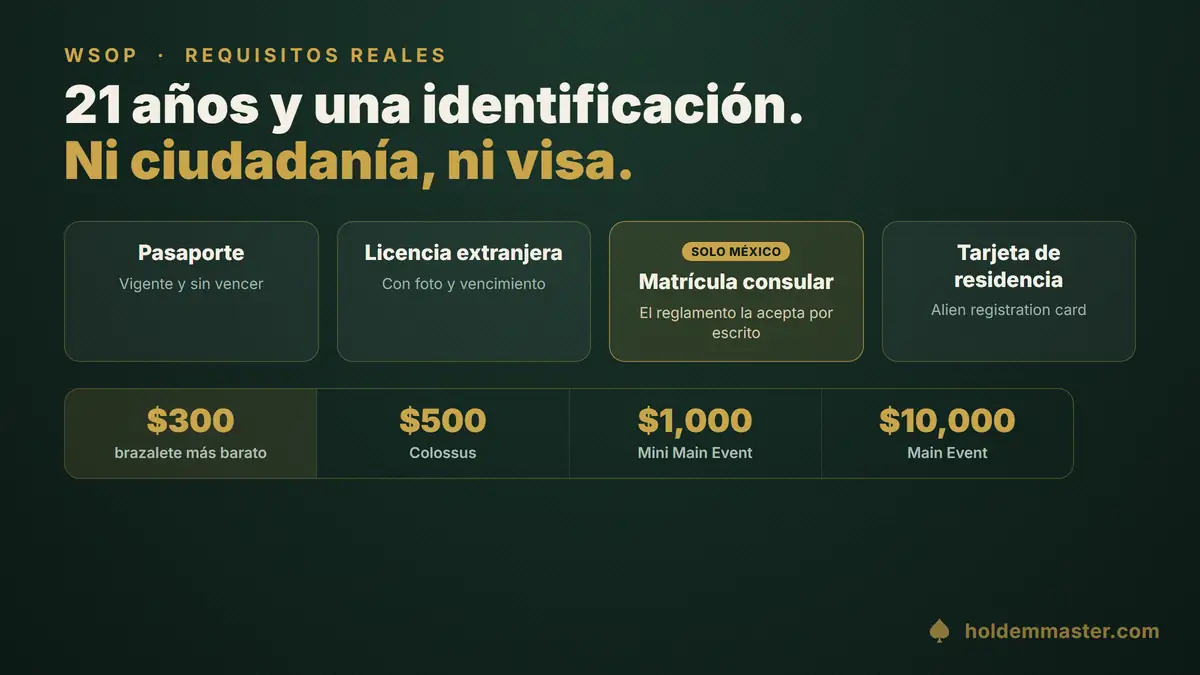
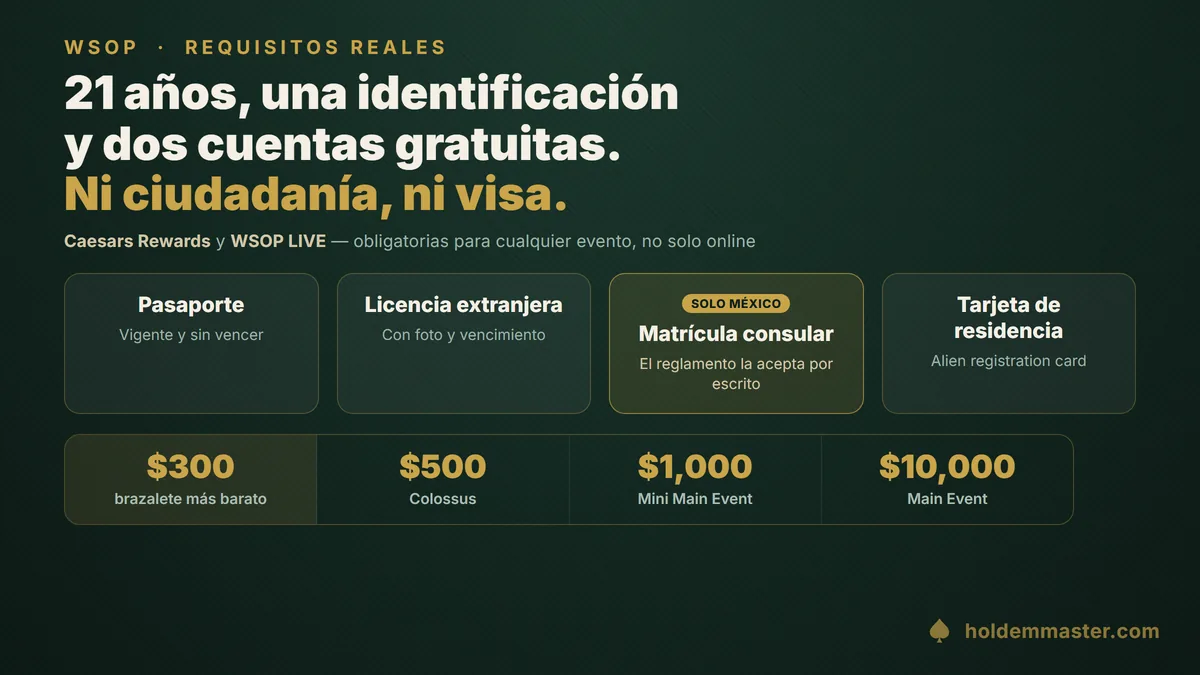
fix(es): como-entrar-al-wsop hero re-rendered with the two free accounts (Q4b-6, owner decision)
- headline now matches the body: 21 years, a valid ID and two free accounts
  (Caesars Rewards + WSOP LIVE); "no citizenship, no visa" kept; document and
  buy-in cards unchanged; watermark in template
- new template scripts/gen-como-entrar-al-wsop-hero.html replaces gen-wsop-hero.html
  (old name did not match the output file); render-gen-final q82, 46KB, 1200x675
- imageAlt updated to the same claim; updated 2026-09-17; sitemap lastmod
- WORKLOG 2026-09-17 (2); harden-queue progress Q4b-6 closed

Claude-Session: https://claude.ai/code/session_01QPTngUBxAAkhNnZwS1h9WZ

diff --git a/scripts/gen-como-entrar-al-wsop-hero.html b/scripts/gen-como-entrar-al-wsop-hero.html
@@ -8,11 +8,13 @@
     color:#f4efe4;position:relative;overflow:hidden}
   .felt{position:absolute;inset:0;opacity:.10;
     background-image:repeating-linear-gradient(45deg,#000 0 2px,transparent 2px 5px)}
-  .wrap{position:relative;padding:44px 64px 0}
+  .wrap{position:relative;padding:36px 64px 0}
   .kicker{font-size:19px;letter-spacing:.22em;text-transform:uppercase;color:#c9a44a;font-weight:700}
-  h1{font-size:52px;line-height:1.08;font-weight:900;margin-top:10px}
+  h1{font-size:46px;line-height:1.1;font-weight:900;margin-top:8px}
+  .sub{margin-top:12px;font-size:17px;font-weight:500;color:#9db3a6;letter-spacing:.01em}
+  .sub b{color:#d2c6a8;font-weight:700}
   h1 em{font-style:normal;color:#c9a44a}
-  .docs{margin-top:32px;display:flex;gap:18px}
+  .docs{margin-top:22px;display:flex;gap:18px}
   .d{flex:1;background:rgba(255,255,255,.05);border:1px solid rgba(201,164,74,.30);
     border-radius:16px;padding:18px 20px;text-align:center}
   .d.star{background:rgba(201,164,74,.14);border-color:rgba(201,164,74,.65)}
@@ -21,7 +23,7 @@
   .d.star .s{color:#d2c6a8}
   .pill{display:inline-block;background:#c9a44a;color:#10201a;font-size:12px;font-weight:800;
     padding:2px 9px;border-radius:20px;margin-bottom:8px;letter-spacing:.04em}
-  .price{margin-top:26px;display:flex;align-items:stretch;gap:0;border-radius:16px;overflow:hidden;
+  .price{margin-top:20px;display:flex;align-items:stretch;gap:0;border-radius:16px;overflow:hidden;
     border:1px solid rgba(201,164,74,.32);width:1010px}
   .p{flex:1;padding:16px 22px;text-align:center;border-right:1px solid rgba(255,255,255,.08)}
   .p:last-child{border-right:0}
@@ -36,7 +38,8 @@
 <div class="felt"></div>
 <div class="wrap">
   <div class="kicker">WSOP &nbsp;·&nbsp; requisitos reales</div>
-  <h1>21 años y una identificación.<br><em>Ni ciudadanía, ni visa.</em></h1>
+  <h1>21 años, una identificación<br>y dos cuentas gratuitas.<br><em>Ni ciudadanía, ni visa.</em></h1>
+  <div class="sub"><b>Caesars Rewards</b> y <b>WSOP LIVE</b> — obligatorias para cualquier evento, no solo online</div>
 
   <div class="docs">
     <div class="d"><div class="t">Pasaporte</div><div class="s">Vigente y sin vencer</div></div>

diff --git a/lib/posts-es/como-entrar-al-wsop.ts b/lib/posts-es/como-entrar-al-wsop.ts
@@ -8,12 +8,12 @@ export const POST: Post = {
   tldr: "Para entrar al WSOP el reglamento pide 21 años cumplidos, una identificación válida y dos cuentas gratuitas (Caesars Rewards y WSOP LIVE); algunos eventos ponen condiciones propias. No pide ciudadanía estadounidense ni visa de ningún tipo, y para quien no es ciudadano acepta pasaporte, licencia extranjera, tarjeta de residencia y la matrícula consular mexicana (útil si ya vives en EE. UU.). Sobre el precio: el Main Event son $10,000, pero el brazalete más barato del calendario cuesta $300. Y ojo con el registro: la primera vez hay una verificación en persona.",
   category: "tournament",
   date: "2026-07-27",
-  updated: "2026-09-16",
+  updated: "2026-09-17",
   keepImagesInBody: true,
   readTime: "10 min",
   emoji: "🏆",
   image: "/images/como-entrar-al-wsop-hero.webp",
-  imageAlt: "Requisitos para entrar al WSOP: 21 años cumplidos y una identificación válida, con la matrícula consular mexicana entre los documentos que acepta el reglamento",
+  imageAlt: "Requisitos para entrar al WSOP: 21 años cumplidos, una identificación válida y dos cuentas gratuitas (Caesars Rewards y WSOP LIVE), sin ciudadanía ni visa, con la matrícula consular mexicana entre los documentos que acepta el reglamento",
   tags: [
     "como entrar al wsop",
     "wsop requisitos",

diff --git a/docs/harden-queue-진행.md b/docs/harden-queue-진행.md
@@ -951,6 +951,7 @@ tiebreak L55·L263·L277 ↔ EN L51·L175·L236·L250 · marathon L281 ↔ EN L2
 > 🔵 **헤드 처리 (2026-09-17 · 머지 ff `8d7f2047` → 헤드 후속 `45825ddb` · 빌드 70 + intl 577 · 게이트 hygiene 🔴 0 · answer-echo 🔴 echo 0 · tournament-numbers 값 필드 0 · stamp en 신규 0)**:
 > **Q4b-1 ✅ 발신 = MB-054**(라이브 앵커·IndexNow 결과는 그 행) · **Q4b-2 ✅** 세 레인 `HARDEN.md` §6-0 통지(🔴 Q6-c 통지의 «$87,568,080 되돌리지 마라»가 뒤집혔음을 명시) · **Q4b-3 ✅ `45825ddb`** 캘린더 8/5 절에 역전 기록 + 교훈, 시한 행 2 신설(**11/15** Circuit Panamá → es como-entrar 표 · **2027-01-01** ESTA US$40) · **Q4b-4 → zh·zh-hant 진행 파일 §5 말미에 헤드 판정 요청으로 이관**(거울쌍 동시 처리 조건 · 레인 회차 없음 유지) · **Q4b-5 ✅** WORKLOG 「2026-09-17」 역전 단락 · 정본 3곳은 레인 실측대로 손대지 않음 · **Q4b-6 → 핸드오프 「사장님 판단」**(히어로 재제작 여부) · **Q4b-7** 등재 0 확인 · **Q4b-8 ✅** sitemap 8행(9편 중 ja·zh·zh-hant wsop 일부는 Q6-c에서 이미 09-16) · ④ 교훈은 **메모리 승격**(`official-page-values-change-lock-view-date`) + 캘린더 8/5 절 — `settled-decisions` §4에는 올리지 않았다(대회 결과 페이지 한정 사례라 §4-A «축어 지지 여부»로 충분).
 > 🟠 **§2 「Q4-b가 남긴 것」 첫 항목(es `poker-en-las-vegas` 명제 3종)은 다음 queue 회차 재료**로 핸드오프에 올렸다.
+> 🔵 **Q4b-6 ✅ 사장님 결정 = 재제작(2026-09-17 · 헤드 실행 · 사장님 직접 지시라 예외)**: 템플릿 `scripts/gen-como-entrar-al-wsop-hero.html`(구 `gen-wsop-hero.html` 대체 · 삭제) → `render-gen-final` q82 → 46KB · 1200×675. 문구 = 「21 años, una identificación y dos cuentas gratuitas. Ni ciudadanía, ni visa.」 + 부제 「Caesars Rewards y WSOP LIVE — obligatorias para cualquier evento, no solo online」(stripe·tldr 축어) · 나머지 카드(서류 4 · 바이인 4)는 승계. imageAlt 동형 갱신 · `updated` 09-17. 썸네일 3편(holdem-tournament·poker-en-las-vegas·wsop-2026)은 같은 파일 경로라 자동 반영. 🪶 곁에서 발견: es `holdem-tournament:298` 썸네일 문장이 「21 años y una identificación válida」로 여전히 좁다 → 핸드오프 다음 회차 재료에 합쳤다.
 
 ### Q6-c (2026-09-16 · ja 10 + zh 7 + zh-hant 5 + ko 3 + 대회 데이터 2 + 게이트 1 + 정본 문서 9 — **배포가 걸린 회차다**)
 

diff --git a/WORKLOG.md b/WORKLOG.md
@@ -1,3 +1,8 @@
+## 2026-09-17 (2) — es `como-entrar-al-wsop` 히어로 재제작 (Q4b-6 사장님 결정 「수정해줘」 · 헤드 실행)
+
+- 문구가 새 본문보다 좁았다(「21 años y una identificación」 ↔ 본문 «+ dos cuentas gratuitas»). 새 템플릿 `scripts/gen-como-entrar-al-wsop-hero.html`(구 `gen-wsop-hero.html` 삭제 — 산출 이름과 어긋나 있었다) → `render-gen-final` q82 → 46KB · 1200×675 · Read 육안 스펠링 확인. 헤드라인 3행 + 부제 「Caesars Rewards y WSOP LIVE — obligatorias para cualquier evento, no solo online」(stripe 축어) · 서류 4카드·바이인 4칸 승계 · 워터마크 템플릿 내장.
+- imageAlt 동형 갱신 · `updated` 09-17 · `check:images` 이상 없음 · `check:image-reuse` 🔴 0 · audit:hard es 0. 썸네일 3편은 같은 경로라 자동. 곁에서: es `holdem-tournament:298` 썸네일 문장이 같은 좁은 명제 → 다음 queue 회차 재료(핸드오프).
+
 ## 2026-09-17 — 🧰 queue 회차 Q4-b 머지·배포 (검수장 MA-118 요청 2 이행 · es WSOP 2편 + EN-먼저 6로케일 · 🔴 WSOP 2026 상금풀 08-06 판정 역전)
 
 - 레인 `8d7f2047`(ff 머지 · 충돌 0) → 헤드 후속 `45825ddb`(sitemap 8행 · 캘린더 · zh/zh-hant 판정 요청) → 빌드 70 + intl 577 · 게이트 hygiene 🔴 0 · answer-echo 🔴 echo 0 · tournament-numbers 값 필드 0 · stamp en 신규 0 · push · lane:sync 4레인.
